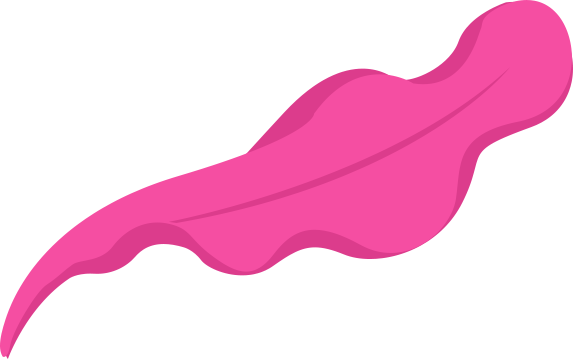
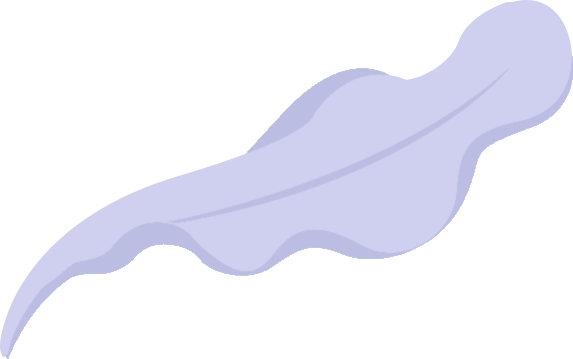
updated assets

diff --git a/assets/scss/_variables.scss b/assets/scss/_variables.scss
@@ -1,5 +1,5 @@
 // Color Variables
-$primary-color: #41228e;
+$primary-color: #5b6b86;
 $secondary-color: #2bfdff;
 $text-color: #4c4c4c;
 $text-color-dark: #000;
